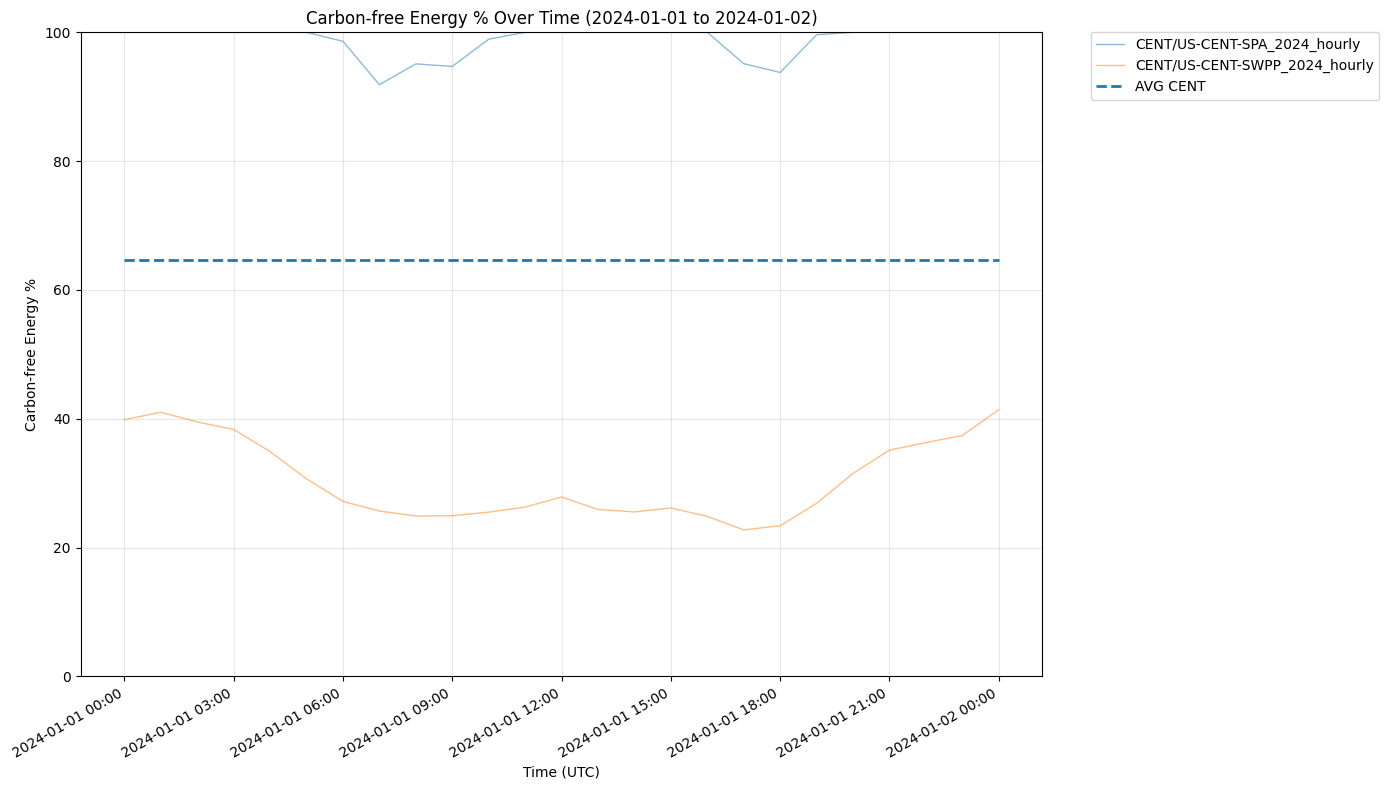
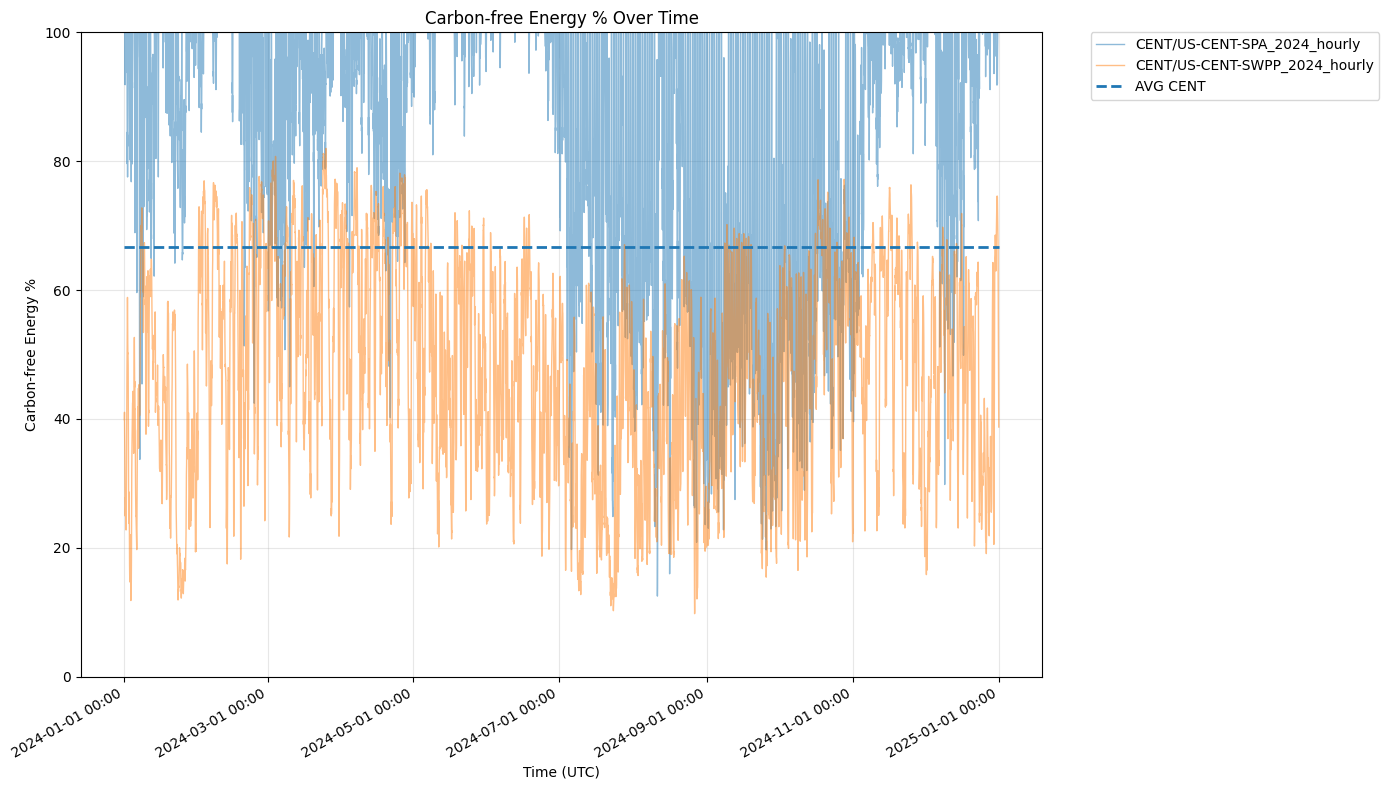
fixed graphs

diff --git a/chart_data.py b/chart_data.py
@@ -268,7 +268,7 @@ def plot_carbon_data(csv_files, columns_to_plot, output_dir=None, show_plot=True
                 # Create a safe filename from the column name
                 safe_name = column.replace(' ', '_').replace('/', '_').replace('%', 'pct')
                 # output_file = os.path.join(output_dir, f"{safe_name}.png")
-                output_file = os.path.join(output_dir, f"day_long.png")
+                output_file = os.path.join(output_dir, f"year_round_percentage.png")
                 plt.savefig(output_file, bbox_inches='tight')
                 print(f"Plot saved to {output_file}")
             
